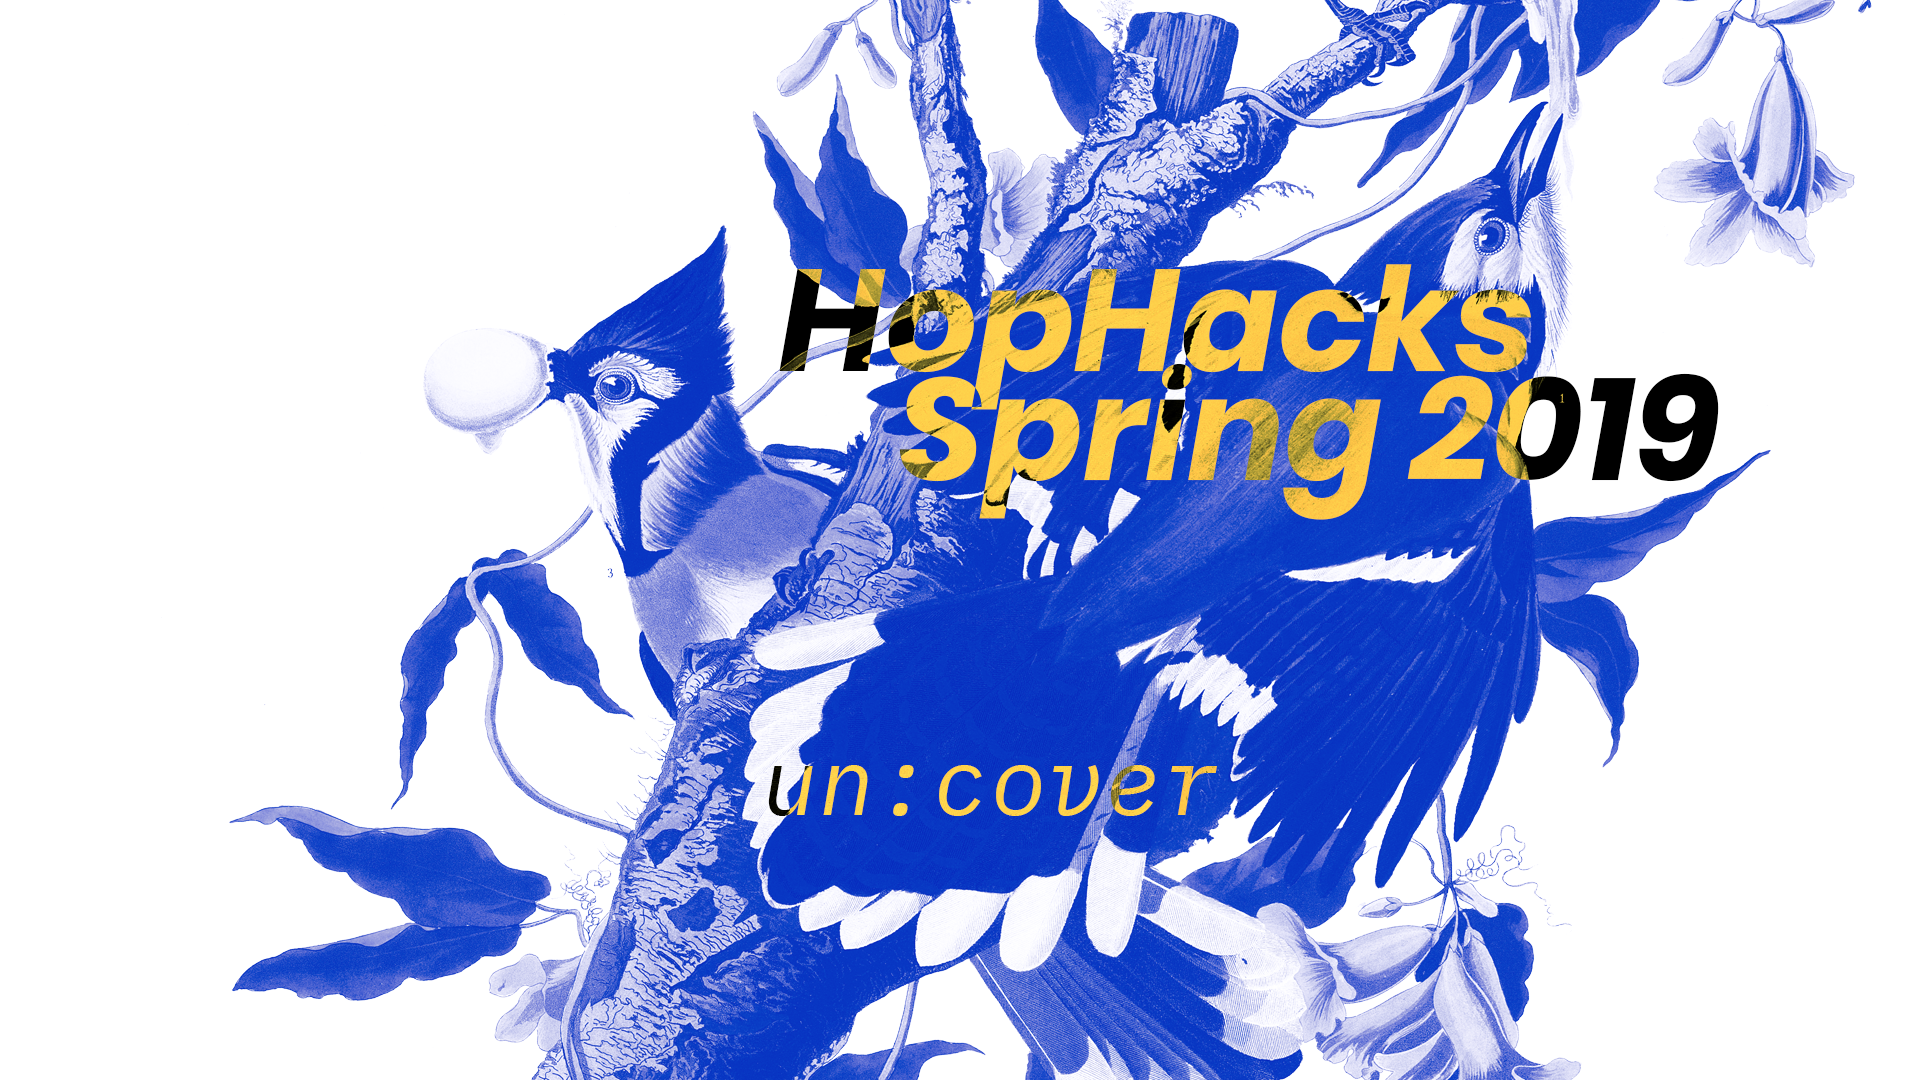
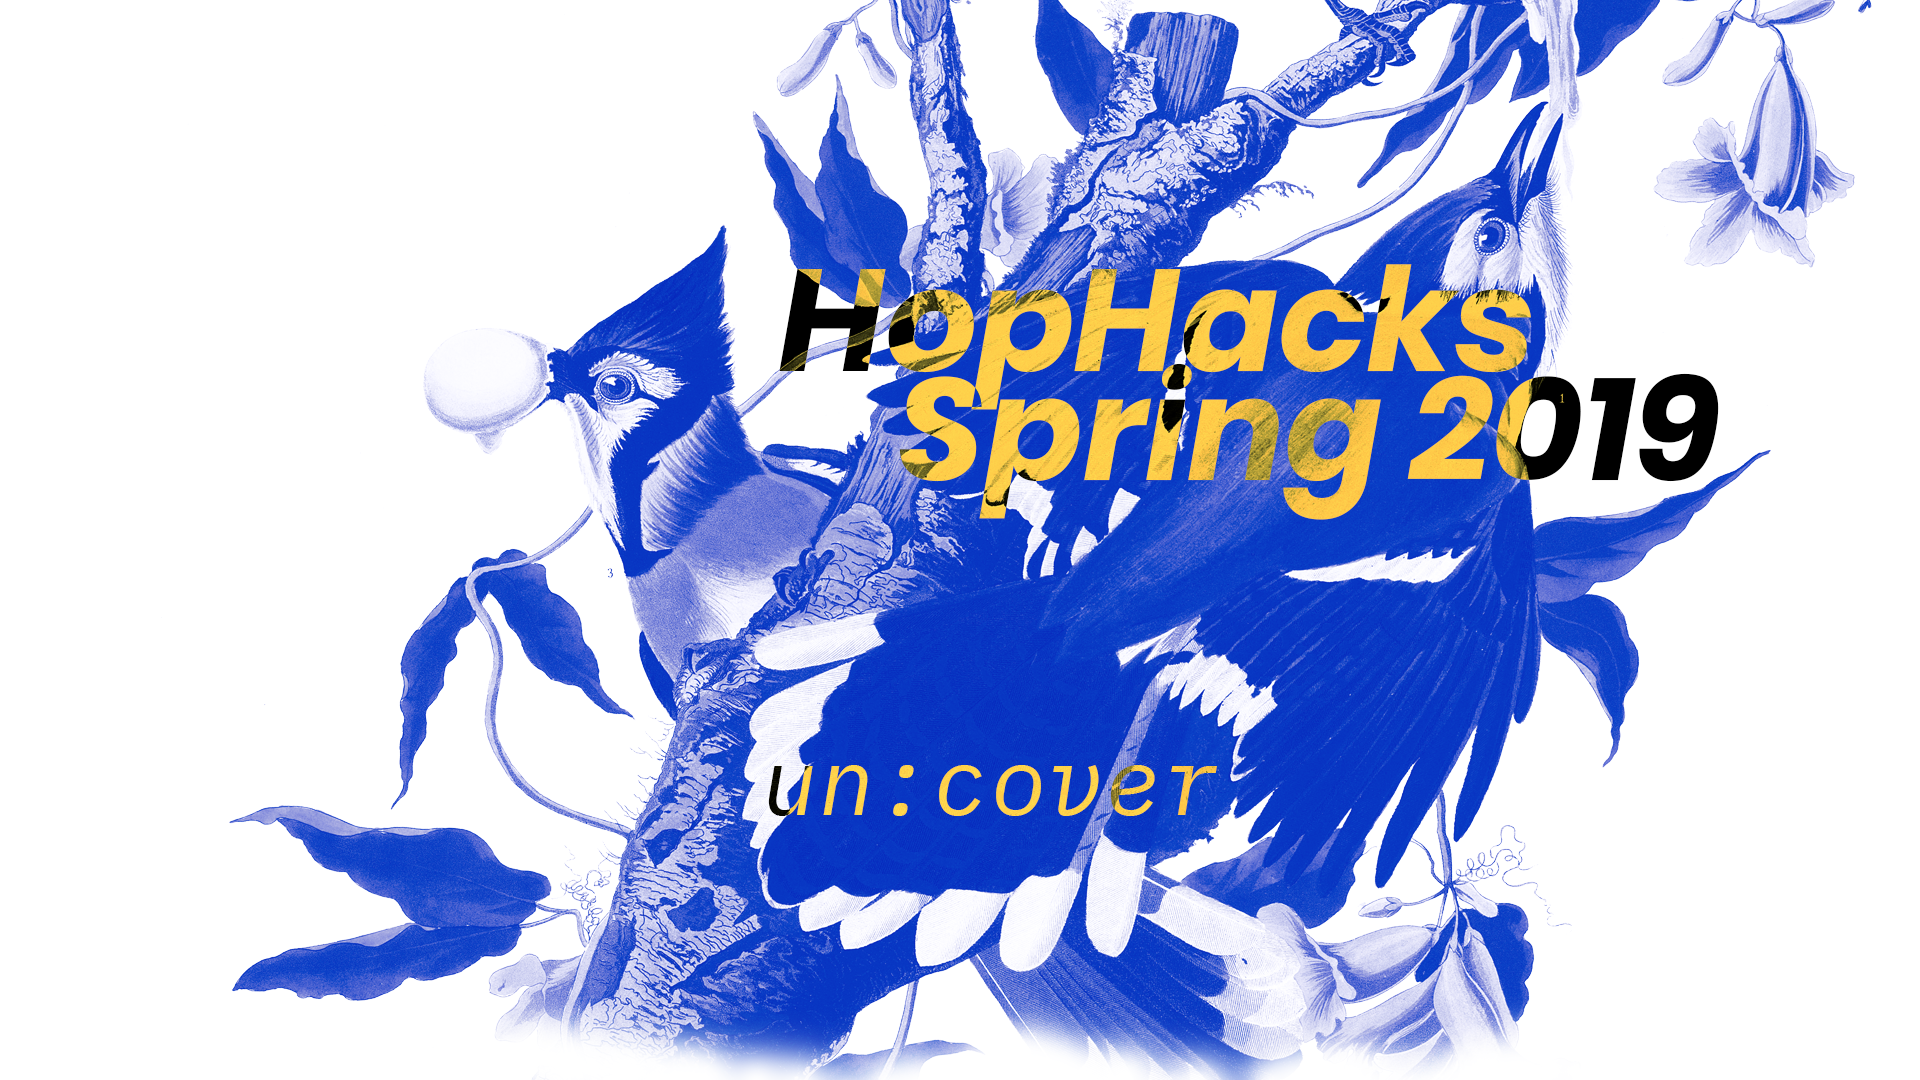
added border blur to images

Changed region(s): [[0.5312, 0.9167, 0.8438, 1.0], [0.25, 0.9167, 0.5, 1.0]]

diff --git a/css/styles.css b/css/styles.css
@@ -1350,11 +1350,11 @@ html, body {
   @keyframes flash {
     0%, 10%, 20% {
       opacity: 0;
-      box-shadow: 0 0 0vw 0vw blue;
+      box-shadow: 0 0 0vw 0vw yellow;
     }
     5% {
       opacity: 1;
-      box-shadow: 0 0 1vw 0.4vw blue;
+      box-shadow: 0 0 1vw 0.4vw yellow;
     }
   }
   
